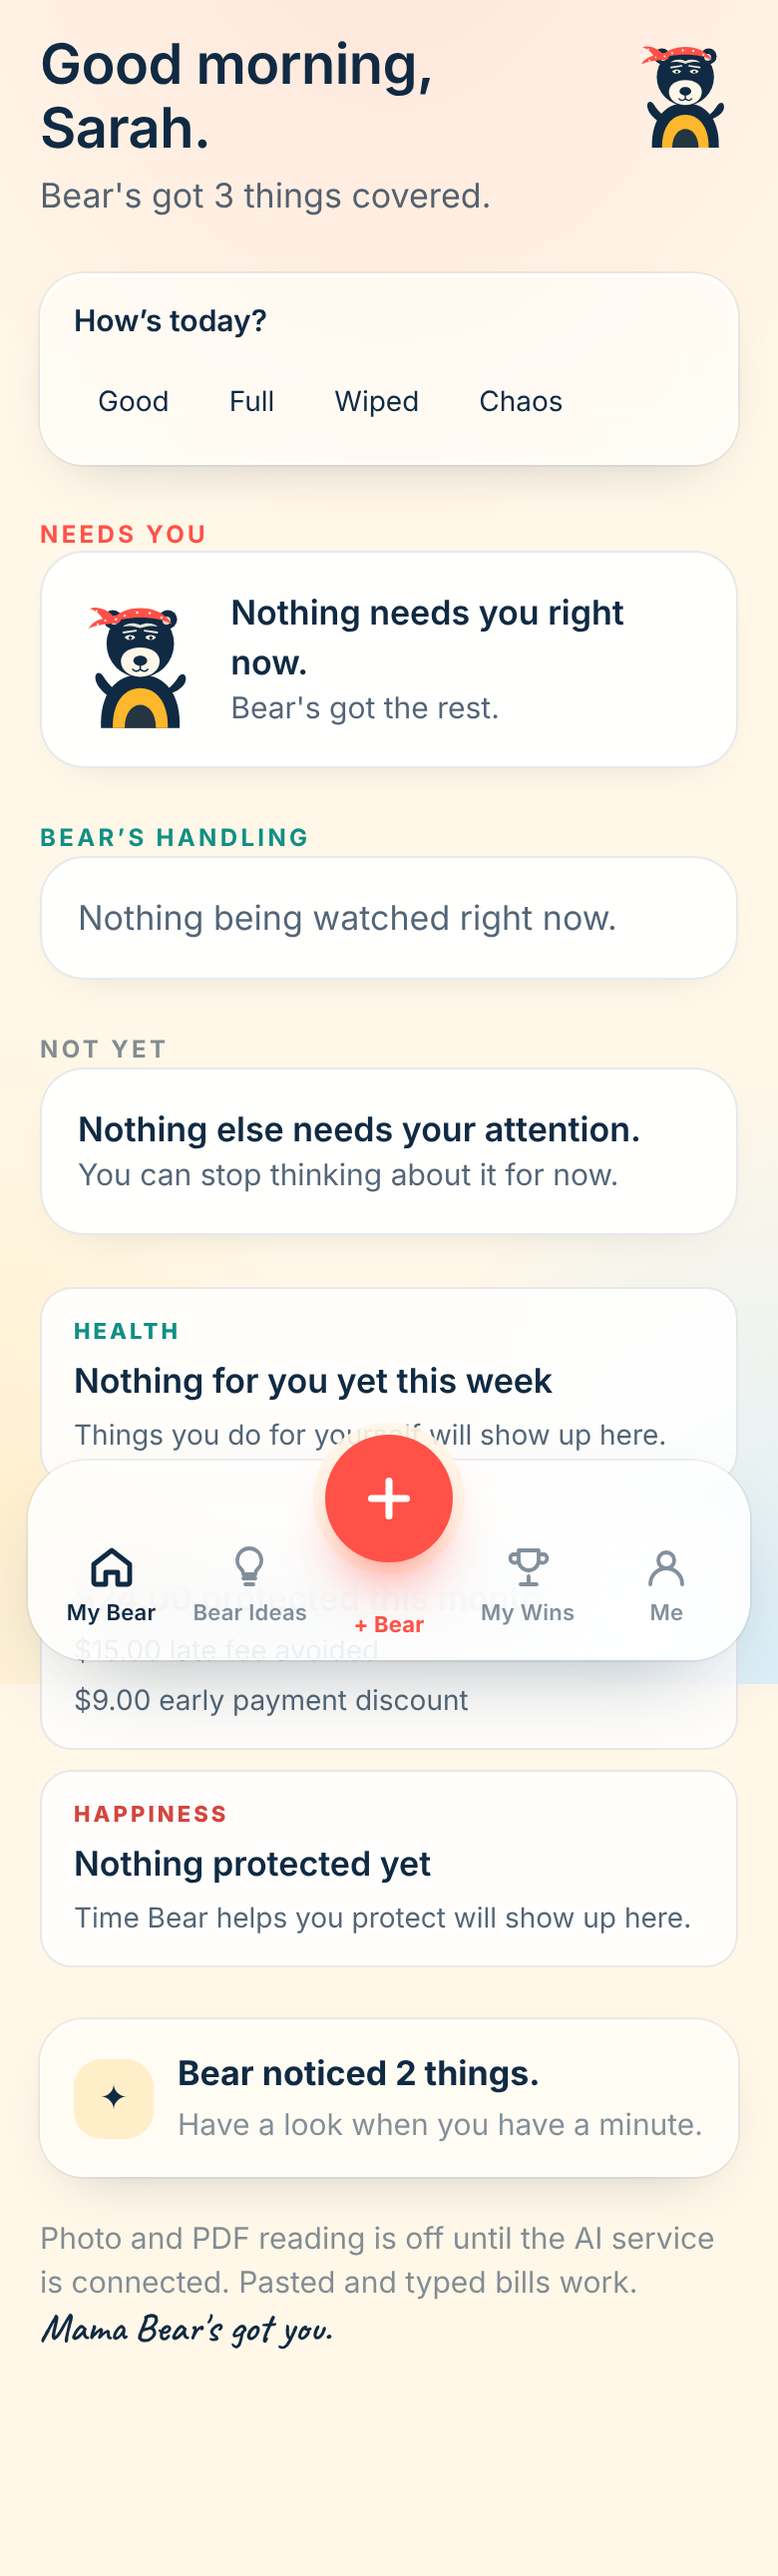
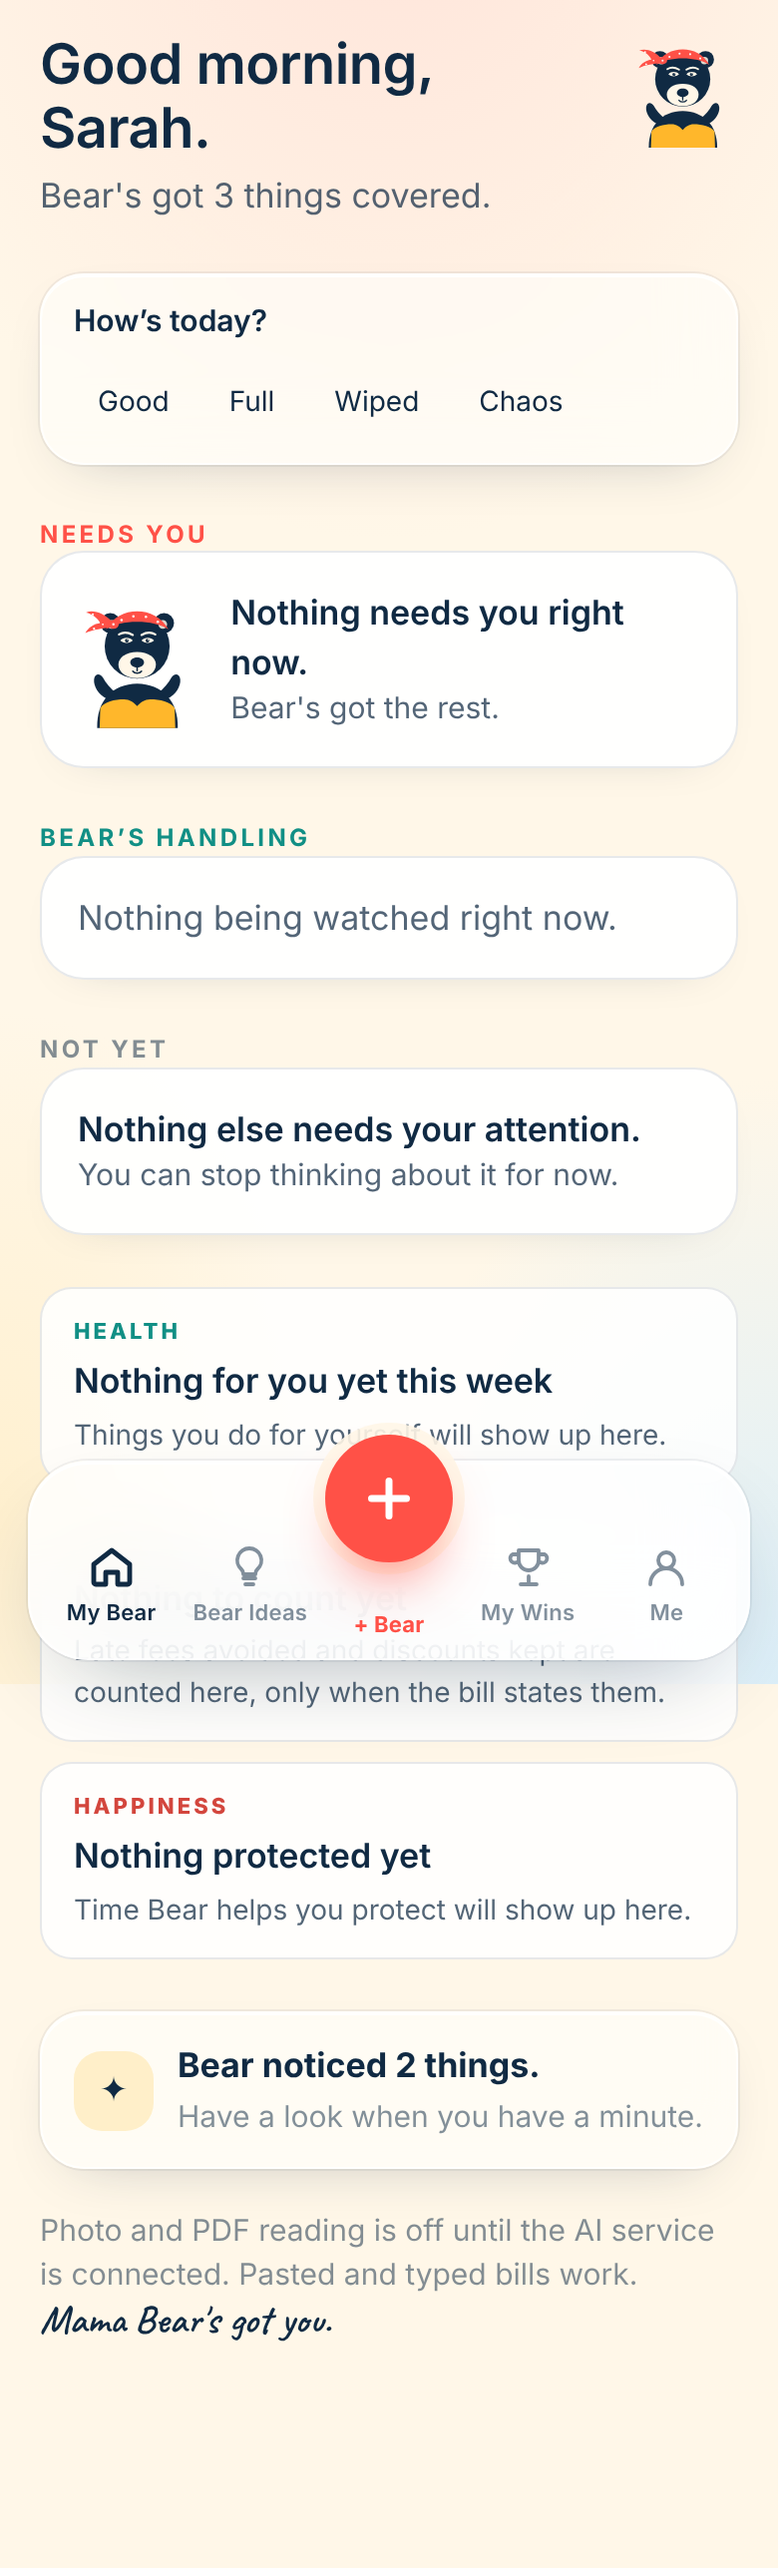
Load Bear: exclude example data from totals, cron scheduling, extra tests and docs
Example bills no longer count towards Wealth, Health or Happiness totals;
adds Vercel cron and a GitHub Actions workflow for push delivery, an env
example, extractor/decision/capacity/store tests, the verification record,
README section and final BUILD_STATUS.

Claude-Session: https://claude.ai/code/session_01NP3Lwb2Y9rXumsgYeiVjZt

diff --git a/lib/bear/services/wins.ts b/lib/bear/services/wins.ts
@@ -5,9 +5,10 @@ export interface WinsView{totals:{handled:number;moneyCents:number;timeMinutes:n
 export async function winsView(store:BearStore):Promise<WinsView>{
  const wins=await store.list('wins',{orderBy:{column:'created_at',ascending:false},limit:100});
  const ledger=await store.list('value_ledger',{orderBy:{column:'occurred_at',ascending:false},limit:300});
- const moneyCents=ledger.filter(r=>r.kind==='wealth'&&r.defensible).reduce((s,r)=>s+(r.amountCents||0),0);
- const timeMinutes=ledger.filter(r=>r.kind==='happiness').reduce((s,r)=>s+(r.minutes||0),0);
- const forMe=ledger.filter(r=>r.kind==='health').length;
+ // Example data is shown on its card but never counted in the totals.
+ const moneyCents=ledger.filter(r=>r.kind==='wealth'&&r.defensible&&!r.isDemo).reduce((s,r)=>s+(r.amountCents||0),0);
+ const timeMinutes=ledger.filter(r=>r.kind==='happiness'&&!r.isDemo).reduce((s,r)=>s+(r.minutes||0),0);
+ const forMe=ledger.filter(r=>r.kind==='health'&&!r.isDemo).length;
  const lines=['One less thing to carry.',"Bear's got the rest.","That's sorted."];
- return {totals:{handled:wins.length,moneyCents,timeMinutes,forMe},cards:wins.map(w=>({id:w.id,title:w.title,detail:w.detail,amount:w.amountCents?'+'+formatAUD(w.amountCents):null,when:w.createdAt,isDemo:w.isDemo})),reinforcement:wins.length&&wins.length%3===1?lines[wins.length%lines.length]:null};
+ return {totals:{handled:wins.filter(w=>!w.isDemo).length,moneyCents,timeMinutes,forMe},cards:wins.map(w=>({id:w.id,title:w.title,detail:w.detail,amount:w.amountCents?'+'+formatAUD(w.amountCents):null,when:w.createdAt,isDemo:w.isDemo})),reinforcement:wins.length&&wins.length%3===1?lines[wins.length%lines.length]:null};
 }

diff --git a/lib/bear/ai/rules.ts b/lib/bear/ai/rules.ts
@@ -65,7 +65,9 @@ export function extractBillWithRules(text:string,referenceYear=new Date().getFul
 
  const biller=knownBillers.find(b=>b.match.test(clean));
  const firstLine=clean.split('\n').map(l=>l.trim()).find(l=>l&&!/^example bill/i.test(l)&&!MONEY_SPAN.test(l)&&!/\d{2}\/\d{2}/.test(l)&&l.length<=60)||null;
- const billerField:F<string>=!biller&&firstLine?got(firstLine.replace(/\s+(pty|ltd|limited)\b.*$/i,''),0.5,firstLine):biller?got(biller.name,biller.key===biller.category||['electricity','gas','water','internet','mobile','insurance','subscription','childcare','school-fees','sports-fees','council-rates','strata','vehicle-registration'].includes(biller.key)?0.55:0.9,(clean.match(biller.match)||[''])[0]):none();
+ // Generic matches ("electricity", "swimming") give the category; the biller's name is more likely the first line.
+ const generic=!!biller&&['electricity','gas','water','internet','mobile','insurance','subscription','childcare','school-fees','sports-fees','council-rates','strata','vehicle-registration'].includes(biller.key);
+ const billerField:F<string>=biller&&!generic?got(biller.name,0.9,(clean.match(biller.match)||[''])[0]):firstLine?got(firstLine.replace(/\s+(pty|ltd|limited)\b.*$/i,''),0.5,firstLine):biller?got(biller.name,0.4,biller.name):none();
  const category:F<BillCategory>=biller?got(biller.category,biller.key===biller.category?0.6:0.85,biller.name):none();
 
  const bpayCode=/biller\s*code\s*:?\s*(\d{4,6})/i.exec(clean);const bpayRef=/\bref(?:erence)?\s*(?:no\.?|number)?\s*:?\s*(\d[\d ]{5,24}\d)/i.exec(clean);

diff --git a/lib/bear/services/home.ts b/lib/bear/services/home.ts
@@ -55,10 +55,10 @@ export const categoryWord=(c:string)=>({electricity:'Electricity',gas:'Gas',wate
 function dueLabel(due:string|null,today:string){if(!due)return 'No due date yet';const d=daysBetween(today,due);if(d===null)return '';if(d<0)return 'Past the due date';const rel=relativeDay(due,today);return 'Due '+(rel==='today'||rel==='tomorrow'?rel:rel);}
 function ledgers(rows:ValueLedgerEntry[],today:string,tasks:Task[]):HomeView['ledgers']{
  const month=today.slice(0,7);
- const wealth=rows.filter(r=>r.kind==='wealth'&&r.defensible&&r.occurredAt.slice(0,7)===month);
+ const wealth=rows.filter(r=>r.kind==='wealth'&&r.defensible&&!r.isDemo&&r.occurredAt.slice(0,7)===month);
  const wealthTotal=wealth.reduce((s,r)=>s+(r.amountCents||0),0);
- const health=rows.filter(r=>r.kind==='health'&&r.occurredAt>=weekStart(today));
- const happiness=rows.filter(r=>r.kind==='happiness'&&r.occurredAt>=weekStart(today));
+ const health=rows.filter(r=>r.kind==='health'&&!r.isDemo&&r.occurredAt>=weekStart(today));
+ const happiness=rows.filter(r=>r.kind==='happiness'&&!r.isDemo&&r.occurredAt>=weekStart(today));
  const happyMinutes=happiness.reduce((s,r)=>s+(r.minutes||0),0);
  return {
   health:{headline:health.length?`${health.length} ${health.length===1?'thing':'things'} for you this week`:'Nothing for you yet this week',lines:health.slice(0,3).map(r=>r.label)},

diff --git a/app/bear/(app)/wins/screen.tsx b/app/bear/(app)/wins/screen.tsx
@@ -30,6 +30,7 @@ export function WinsScreen(){
     </div>
     <div className="section">
      {data.cards.length===0&&<div className="card" style={{display:'flex',gap:14,alignItems:'center'}}><MamaBear size={64} pose="calm"/><div><p style={{fontWeight:600}}>{brand.winsEmpty}</p><p className="muted small">{brand.winsSub}</p></div></div>}
+     {data.cards.some(c=>c.isDemo)&&<p className="faint" style={{marginBottom:10}}>Example bills show here so you can see how it works, but they never count towards your totals.</p>}
      {data.cards.map(c=><div key={c.id} className="receipt"><div style={{display:'flex',justifyContent:'space-between',gap:10}}><p><span className="tick" aria-hidden="true">✓</span><strong>{c.title}</strong></p>{c.isDemo&&<span className="demo-tag">Example</span>}</div><p className="small muted" style={{marginTop:4,paddingLeft:22}}>{c.detail}</p><p className="tiny faint" style={{marginTop:4,paddingLeft:22}}>{formatAU(c.when.slice(0,10),'short')}</p></div>)}
      {data.reinforcement&&<BearSays size={22}>{data.reinforcement}</BearSays>}
     </div>

diff --git a/BUILD_STATUS.md b/BUILD_STATUS.md
@@ -1,14 +1,28 @@
 # Load Bear — BUILD STATUS
 
+Last updated: 23 October 2026.
+
 ## Completed
 - Brand board studied; visual system documented (`docs/load-bear/00-visual-system.md`).
-- Architecture, data model, extraction schema, vertical slice, milestones and external configuration documented (`docs/load-bear/`).
+- Architecture, data model, extraction schema, vertical slice, milestones and external configuration documented (`docs/load-bear/01`–`06`).
+- **P0 bill workflow, end to end and real:** sign-in → onboarding (Areas, People, PINS, Life Rhythm, Capacity) → Give it to Bear (text, typed, photo, screenshot, PDF) → Bear-thinking extraction (rule-based always; Anthropic vision when a key exists) with per-field confidence and provenance → "Have I got this right?" with specific questions for uncertain fields and user corrections recorded → Area/Project/Task/Bill creation with warranted dependencies → reminder plan from the capacity map and coordination engine → reminders actually scheduled (rows + in-app delivery + local notification + Web Push when configured) → notification decision engine (no guilt, quiet hours, day mode, deferral changes the plan) → assistance (payment page, BPAY, copy reference, original bill, explain, draft a question) → mark paid → Completion, Win, defensible Wealth entry, recurring expectation → My Wins, My Bear ledgers → Bear Ideas (recurring, discount, increase, related areas, missing expected; "Not relevant" trains suppression).
+- Chaos Mode (How's today?), first-run example bill clearly labelled and excluded from totals, empty/loading/error/offline states, accessibility basics (labels, focus rings, reduced motion, large targets, no colour-only meaning).
+- Supabase migration for 21 `bear_*` tables with owner-only RLS and a private `bear-documents` bucket; request-scoped Supabase store; in-memory store for tests and local development.
+- Tests: 162 passing (vertical slice, edge cases, extractor, decision engine, capacity, coordination, store isolation). TypeScript, lint and production build clean. 21-step Chromium walk-through of the real screens passes (`docs/load-bear/07-verification.md`).
+- Cron delivery route + Vercel cron (hourly) + GitHub Actions workflow (15-minute) for push reminders.
 
 ## In progress
-- Milestone 1: domain types, store interface, memory store, migration.
+- Nothing. The MVP is complete pending the external configuration below.
 
-## Blocked
-- Applying the Supabase migration and setting server-only keys requires project credentials that are not available in the build environment (see `docs/load-bear/06-external-configuration.md`).
+## Blocked (needs credentials / platform configuration — see `docs/load-bear/06-external-configuration.md`)
+- Apply `supabase/migrations/20261023120000_load_bear.sql` to the Supabase project.
+- Set `ANTHROPIC_API_KEY` on the server to turn on photo / screenshot / PDF reading (text and typed bills already work).
+- Generate VAPID keys and set `BEAR_VAPID_*`, `BEAR_CRON_SECRET`, `SUPABASE_SERVICE_ROLE_KEY` to turn on push delivery; enable the GitHub Actions variable `BEAR_REMINDERS_ENABLED` or rely on Vercel cron.
+- Add `/auth/callback?next=/bear` to the Supabase Auth redirect allow-list.
+- Real-device checks on iOS Safari (Add to Home Screen, notifications) and a real-provider extraction run.
 
-## Next
-- Milestone 2: services and the vertical-slice tests.
+## Next (P1)
+- Voice capture (architected in the capture sheet, marked "coming soon").
+- Health and Happiness ledger sources beyond bills; behaviour-learned reminder windows get more weight as data accumulates.
+- Licensed Australian lifestyle photography into the onboarding tile art slots.
+- Partner/delegation terms in the coordination engine.

diff --git a/docs/load-bear/07-verification.md b/docs/load-bear/07-verification.md
@@ -1,0 +1,46 @@
+# Load Bear MVP — verification record (23 October 2026)
+
+## What was run
+
+| Check | Command | Result |
+|-------|---------|--------|
+| Unit + vertical-slice tests | `pnpm test` | 162 passed, 0 failed (10 Load Bear tests across 3 files, plus the existing ENOUGH suite) |
+| TypeScript | `pnpm typecheck` | clean |
+| Lint | `pnpm lint` (new flat config, `eslint-config-next`) | clean |
+| Production build | `pnpm build` | compiled; all `/bear` and `/api/bear` routes emitted |
+| Browser walk-through | `BEAR_TEST_MODE=start node scripts/test-bear-browser.mjs` | 21 steps passed in headless Chromium (390×844, en-AU, Australia/Sydney) against `next start` with the in-memory local store; screenshots in `.bear-browser-results/` |
+
+## The vertical slice covered by `tests/bear-vertical-slice.test.mjs`
+
+new user → onboarding (areas, people, PINS, Life Rhythm, capacity stored) →
+screenshot capture through the model provider (fake) → extraction succeeds →
+low-confidence due date triggers a specific question → confirming without
+verification is refused → user corrects the field → Area/Project/Task/Bill
+created with the original document as the resource and a discount-deadline
+dependency → reminder recommended in a non-protected window ahead of the due
+date → accepted → two reminders scheduled → nothing fires early → due reminder
+delivered with a non-guilt message and assistance actions → Bear offers BPAY
+details, payment page and the original → mark paid → task done, reminders
+quietly closed → Win generated → Wealth entry only for the stated late fee
+(discount correctly not counted when paid after its deadline) → recurring
+expectation offered, accepted, window predicted → My Wins and My Bear totals.
+
+Edge cases: missing due date, ambiguous amount, multiple dates, model/rules
+disagreement, already paid, overdue, duplicate, user rejects, invalid image,
+wrong MIME, AI failure, network failure, schema-invalid model output, no
+provider configured, notification permission denied, Chaos mode, repeated
+deferral changing the plan rather than nagging.
+
+## What was NOT verified here
+
+* A real Anthropic round trip for photo/PDF reading (no key in this
+  environment). The provider is exercised through the fake; the Anthropic
+  implementation compiles and follows the current SDK surface
+  (`output_config.format` JSON schema, vision/PDF blocks, typed errors).
+* The Supabase migration applied to the real project, RLS in a real database,
+  signed URLs, and email sign-up. The Supabase store compiles against the
+  same `BearStore` contract the tests exercise through the in-memory store.
+* Web Push on a real device (no VAPID keys). The subscription, service worker
+  and cron route are in place and visibly report "not connected" until keys
+  exist.
+* iOS Safari / Add to Home Screen behaviour on a device.

diff --git a/README.md b/README.md
@@ -1,3 +1,14 @@
+# Load Bear (`/bear`)
+
+Load Bear is the second-brain / life-management product built in this repository alongside ENOUGH, mounted at `/bear` and sharing the Supabase project and sign-in. The MVP makes one workflow real end to end: **bills** — capture, AI extraction with per-field confidence, mandatory human verification, task and reminder planning around the user's Life Rhythm, non-guilt reminders, payment assistance (Bear never pays), mark paid, My Wins and a Wealth ledger that only counts stated late fees and discounts.
+
+* Plan and design docs: `docs/load-bear/` (visual system, architecture, data model, extraction schema, vertical slice, milestones, external configuration, verification).
+* Status: `BUILD_STATUS.md`.
+* Migration to apply once: `supabase/migrations/20261023120000_load_bear.sql`.
+* Server-only keys: `ANTHROPIC_API_KEY` (photo/PDF reading), `BEAR_VAPID_*` + `BEAR_CRON_SECRET` + `SUPABASE_SERVICE_ROLE_KEY` (push delivery). See `.env.example`. Without them the affected features are visibly marked unavailable; text and typed bills work through the rule-based extractor.
+* Local run without Supabase: `BEAR_DEV_STORE=memory pnpm dev` then open `http://localhost:3000/bear` (one in-memory local user; ignored when a Supabase URL is set or on Vercel).
+* Checks: `pnpm test`, `pnpm typecheck`, `pnpm lint`, `pnpm build`, and the browser walk-through `BEAR_TEST_MODE=start node scripts/test-bear-browser.mjs` (needs a prior build and Chromium at `/opt/pw-browsers/...` or `BEAR_TEST_CHROMIUM`).
+
 # ENOUGH public-hosting migration
 
 ## Privacy and AI permission
